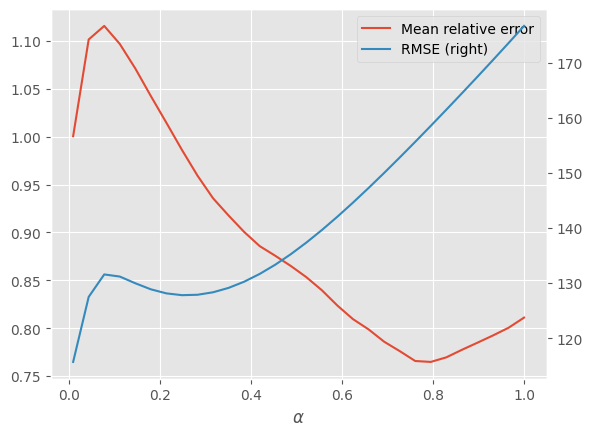
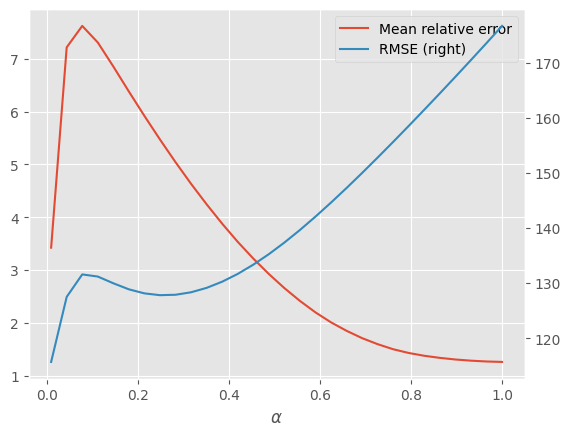
WIP

diff --git a/_posts/2025-01-20-Simple-Ad-Hoc.md b/_posts/2025-01-20-Simple-Ad-Hoc.md
@@ -223,13 +223,15 @@ plot_predictions(exp_smooth, 'Exp-Smoothing', [0.1, 0.5, 0.9], '$\\alpha$')
 Well, we can see that a small $$\alpha$$ smoothed out the revenue trend a lot, as expected. We give a higher weight to historical samples, and lower weight to recent samples. This is reversed for higher values of $$\alpha$$, where the smoothed-out curve tends to give a higher weight to recent samples and discard history faster. So how well does it perform? Well, let's measure _two_ prediction errors:
 
 1.   Root Mean-Squared Error: $$\mathrm{RMSE} =\sqrt{ \frac{1}{n} \sum_{i=1}^n (y_i - y_i^{\mathrm{true}} )^2 }$$
-2.   Mean relative error: $$\mathrm{MRE} = \frac{1}{n} \sum_{i=1}^n \frac{2|y_i - y_i^{\mathrm{true}}|}{y_i + y_i^{\mathrm{true}}}$$
+2.   Mean relative error: $$\mathrm{MRE} = \frac{1}{n} \sum_{i=1}^n \frac{|y_i - y_i^{\mathrm{true}}|}{\max(\varepsilon,y_i^{\mathrm{true}})}$$
 
-The root mean-squared error is what actually the squared loss is optimizing for. The square-root is typically added to restore the units of the euro back to the original units of the predicted variable. How many percents are we away from the true prediction? Note, that here we use a _symmetrized_ version of the relative error, to account for the fact that $$y_i$$ or $$y_i^{\mathrm{true}}$$ may be zero. Let's implement the two metrics:
+The root mean-squared error is what actually the squared loss aims to optimize for. The square-root is typically added to restore the units to the original units of the predicted variable. 
+
+The relative error here measures the error in fractions of the true value, with $$\varepsilon>0$$ is a small parameter that avoids division by zero. This is what typically the right error to use for sums of money - how many percents are we away from the true prediction? This kind of relative error is an extremely common one, and is meaningful to business people. Let's implement the two metrics:
 
 ```python
-def mean_relative_error(y, yref):
-    return np.mean(np.abs(y - yref) / np.maximum(y, yref))
+def mean_relative_error(y, yref, epsilon=0.01):
+    return np.mean(np.abs(y - yref) / np.maximum(epsilon, yref))
 
 def rmse(y, y_ref):
     return np.sqrt(np.mean(np.square(y - y_ref)))
@@ -274,9 +276,11 @@ plot_errors(exp_smooth, np.linspace(0.01, 1, 30), '$\\alpha$')
 
 ![exp_smooth_errors](../assets/smooth_ogd/exp_smooth_errors.png)
 
-The relative error is plotted on the left y-axis, whereas the RMSE is on the right y-axis. We can see two interesting phenomena:
+The relative error is plotted on the left y-axis, whereas the RMSE is on the right y-axis. The plotted relative error is in fractions, rather than percents. So a relative error of 3 means we're 300% off. 
 
-*   The prediction error heavily depends on the step-size.
+We can see two interesting phenomena:
+
+*   The prediction error heavily depends on the step-size. And the differences between step-sizes are _enormous_: ~100% relative error vs. ~700%.
 *   The relative error, which is what we truly care about, does not necessarily correlate with the RMSE. Indeed, a larger $$\alpha$$ degrades the RMSE, but actually improves the relative error.
 
 How much does it depend on the step-size? Well let's try visualizing the mean relative error for four different ad campaigns as a function of the step-size. The four ad campaigns are generated with four different random seeds.
